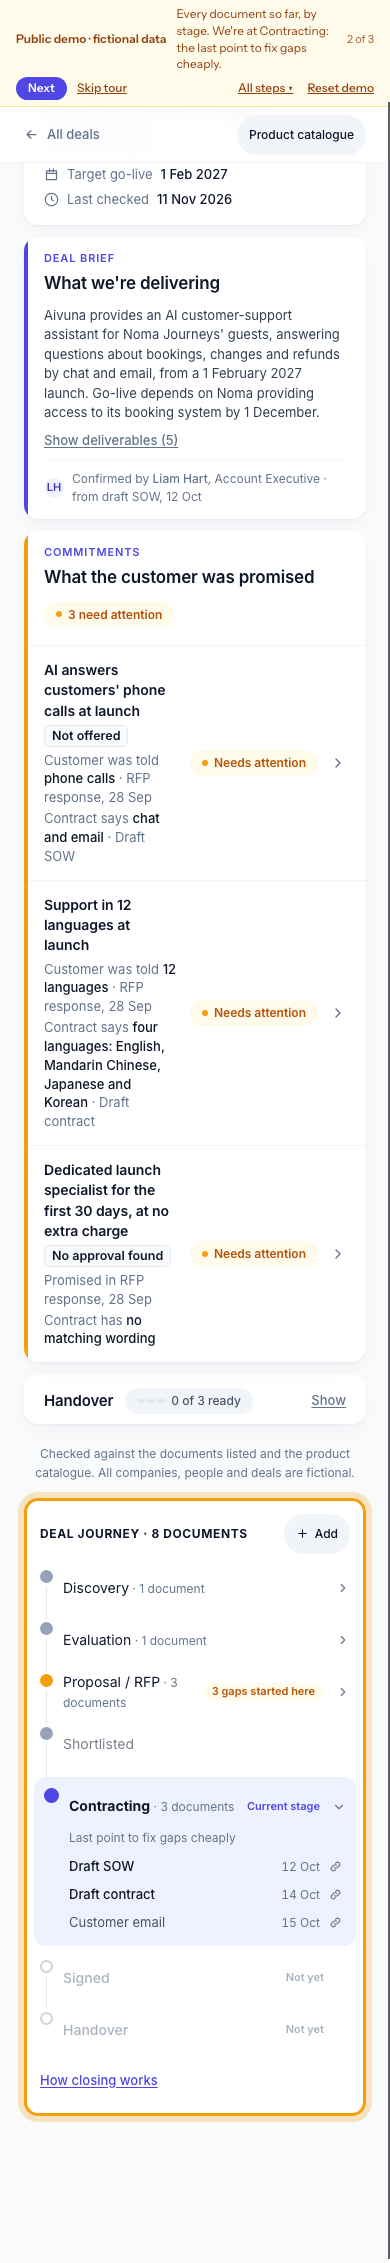
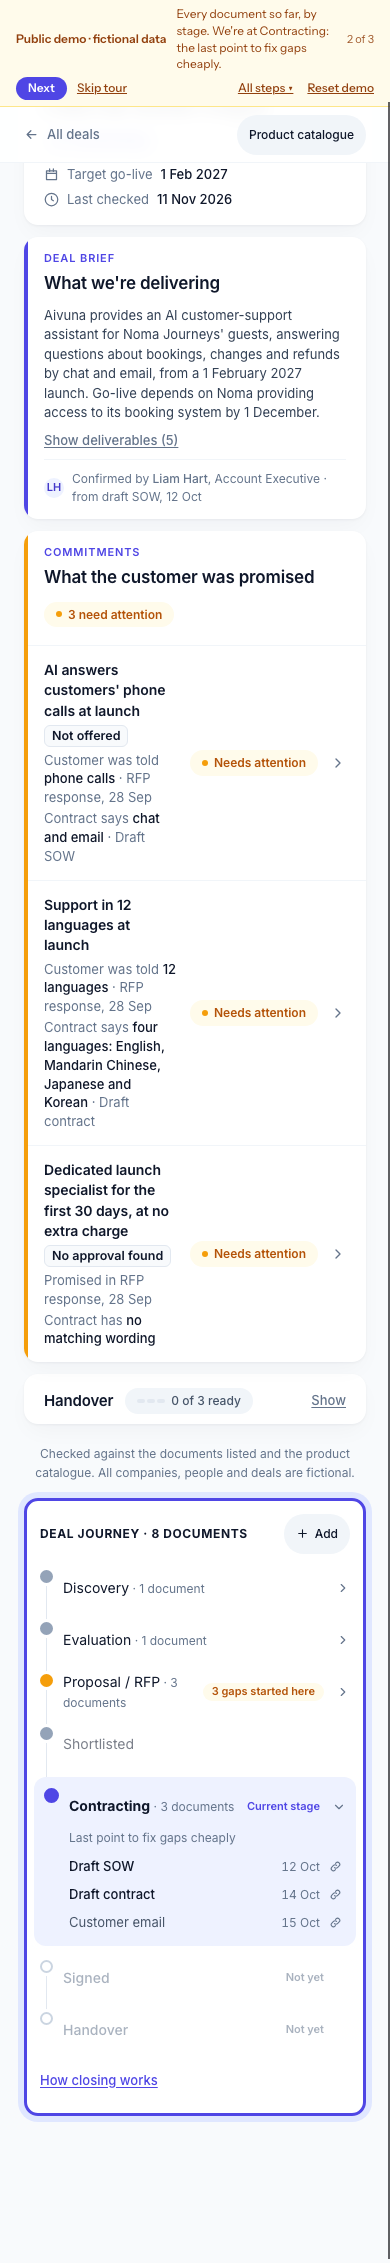
Result dialog replaces inline What changed card; indigo tour highlights; tests 830/244

Changed region(s): [[0.0308, 0.6496, 0.9538, 0.9589]]

diff --git a/frontend/src/DealPage.jsx b/frontend/src/DealPage.jsx
@@ -11,7 +11,7 @@ import "@fontsource/inter/latin-700.css";
 import * as api from "./api.js";
 import { addReady, fmtDate, fmtDateTime, mismatchNotice, newDocumentNotice, uploadKind } from "./format.js";
 import {
-  CLOSING_ONE_LINE, FINDING_SHORT, GAP_CLOSES, closedBy, closedLines, reopenedLines, signedConfirmations, SIGNED_NOTE, STATUS_CHIP, commitmentView, attentionText, changeResult, closedTitle, confirmedTitle, reopenedTitle, coverageLine, docCount, gapProgress, orderPromises, journeyOpen, docLabel, groupByStage, hashFor, isSignedDoc,
+  CLOSING_ONE_LINE, FINDING_SHORT, GAP_CLOSES, closedBy, closedLines, reopenedLines, signedConfirmations, SIGNED_NOTE, STATUS_CHIP, commitmentView, attentionText, changeResult, changeTitle, changedPromises, closedTitle, confirmedTitle, reopenedTitle, coverageLine, docCount, gapProgress, orderPromises, journeyOpen, docLabel, groupByStage, hashFor, isSignedDoc,
   mismatchParts, promiseLabels, missingForHandover, handoverChecklist, handoverOpen, changeView, changeDocLabel, datePrefill, plainName, readHash, recordedBy, rowTitle, toldParts, suggestFix, useName, whatChanged,
 } from "./dealpage.js";
 import FrozenRecord from "./FrozenRecord.jsx";
@@ -210,19 +210,33 @@ function NotePanel({ deal, role, label, who, note, name, setName, onSave }) {
   );
 }
 
-export function ChangePanel({ change, titleOf, onClose }) {
+// The result of a recheck, as a centred dialog over the dimmed page (11 Nov; it was an inline card above the commitments). It opens after "Add and check"
+// (and after a signed contract). One line per change, grouped by commitment: a green tick for a gap closed by documents or confirmed in the signed contract,
+// amber for a gap still open or reopened, a "New" tag for a new gap. "Got it" closes it and highlights the rows that changed; Escape, the X and a click on the
+// dimmed page close it without. Below 640px it is a full-width sheet from the bottom, scrollable, with "Got it" always visible.
+export function ChangeDialog({ change, titleOf, onClose, onGotIt }) {
   const { openPromises } = change;
   const short = (f) => FINDING_SHORT[f] ?? f;
   const view = changeView(change, titleOf, change.acted);
+  const rows = view.groups.some((g) => g.closed.length || g.confirmed.length || g.reopened.length || g.stillOpen.length || g.opened.length);
+  const titleId = useId();
+  const gotIt = useRef(null);
+  useEffect(() => {
+    const before = document.activeElement;
+    gotIt.current?.focus();
+    const onKey = (e) => e.key === "Escape" && onClose();
+    window.addEventListener("keydown", onKey);
+    return () => { window.removeEventListener("keydown", onKey); before?.focus?.(); };
+  }, [onClose]);
   return (
-    <section className="dp-card dp-change" role="status" aria-live="polite">
-      <div className="dp-change-body">
-        <div className="dp-change-head">
-          <h2><Icon d={I.sync} size={18} /> After adding {change.doc}</h2>
-          <p className="dp-change-result">{view.headline}</p>
-          {view.elsewhere && <p className="dp-change-else">{view.elsewhere}</p>}
+    <div className="dp-cd" onClick={onClose}>
+      <div className="dp-cd-panel" role="dialog" aria-modal="true" aria-labelledby={titleId} onClick={(e) => e.stopPropagation()}>
+        <div className="dp-cd-head">
+          <h2 id={titleId}>{change.title ?? `Rechecked after adding ${change.doc}`}</h2>
+          <button type="button" className="dp-x" onClick={onClose} aria-label="Close"><Icon d={I.close} size={16} /></button>
         </div>
-        <div className="dp-change-rows">
+        <div className="dp-cd-body">
+          {!rows && <p className="dp-change-result">{view.headline}</p>}
           {view.groups.map((g) => (
             <div key={g.promise} className="dp-change-group">
               <h3 className="dp-change-title">{g.title}</h3>
@@ -234,7 +248,6 @@ export function ChangePanel({ change, titleOf, onClose }) {
                       <strong>{closedTitle(x.finding)}</strong>
                       <span className="dp-change-closed"> · closed by documents</span>
                     </div>
-                    <p>{x.why}</p>
                     {x.by && <p className="dp-change-by">{closedBy(x.by)}</p>}
                   </div>
                 </div>
@@ -265,7 +278,7 @@ export function ChangePanel({ change, titleOf, onClose }) {
               {g.stillOpen.map((x) => (
                 <div key={`s|${x.finding}`} className="dp-change-row is-open">
                   <span className="dp-change-mark"><Icon d={I.alert} size={13} /></span>
-                  <div><div className="dp-change-line"><strong>Still needs attention: {short(x.finding)}</strong></div></div>
+                  <div><div className="dp-change-line"><strong>{short(x.finding)}</strong><span className="dp-change-still"> · still open</span></div></div>
                 </div>
               ))}
               {g.opened.map((x) => (
@@ -281,18 +294,17 @@ export function ChangePanel({ change, titleOf, onClose }) {
               ))}
             </div>
           ))}
+          {view.elsewhere && <p className="dp-change-else">{view.elsewhere}</p>}
+          <p className="dp-change-count">{openPromises} {openPromises === 1 ? "commitment still needs" : "commitments still need"} attention.</p>
         </div>
-        <div className="dp-change-foot">
-          <span className="dp-change-count">{openPromises} {openPromises === 1 ? "commitment still needs" : "commitments still need"} attention.</span>
-          <span className="dp-row">
-            <button type="button" className="dp-link-btn dp-done" onClick={onClose}>Done</button>
-          </span>
+        <div className="dp-cd-foot">
+          <p className="dp-change-model">
+            {change.modelCalls ? "The model read the new document; code checked every finding again." : "No model call was needed: code checked every finding again."}
+          </p>
+          <button type="button" className="dp-btn dp-btn-dark" ref={gotIt} onClick={onGotIt ?? onClose}>Got it</button>
         </div>
-        <p className="dp-change-model">
-          {change.modelCalls ? "The model read the new document; code checked every finding again." : "No model call was needed: code checked every finding again."}
-        </p>
       </div>
-    </section>
+    </div>
   );
 }
 
@@ -688,7 +700,7 @@ export default function DealPage({ deal, onBack, onDealsChanged, onClassic }) {
   const [change, setChange] = useState(null); // the "What changed" card after a document or a recheck
   const [askName, setAskName] = useState(null); // { fn, initial }: the name prompt, only for actions that have no form of their own
   const [help, setHelp] = useState(false);
-  const [flash, setFlash] = useState({ row: null, handover: false }); // the demo bar's target, highlighted for a moment
+  const [flash, setFlash] = useState({ row: null, handover: false, rows: [] }); // what to highlight for a moment: the demo bar's target row or Handover, or the rows a recheck changed
   const [tourKey, setTourKey] = useState(null); // the section the bar's "Get the picture" tour is showing: "brief", "journey" or "commitments"
   const [handoverManual, setHandoverManual] = useState(null); // { stage, open }: a person's choice for the Handover card, kept until the stage changes or the page reloads
   const handoverBodyId = useId();
@@ -735,13 +747,13 @@ export default function DealPage({ deal, onBack, onDealsChanged, onClassic }) {
     if (a.drawer) setDrawer(a.drawer);
     if (a.drawer?.type === "commitment") writeHash(byId(a.drawer.id)?.ref ?? null);
     if (a.handover) setHandoverManual({ stage: reg.stage.current, open: true });
-    setFlash({ row: a.row, handover: a.handover });
+    setFlash({ row: a.row, handover: a.handover, rows: [] });
     setTimeout(() => {
       const at = a.row != null ? promiseRowIds.indexOf(a.row) : -1; // the row's place in the list; the row markup itself carries no id
       const target = a.handover ? document.getElementById("dp-handover") : at >= 0 ? document.querySelectorAll("#dp-commitments .dp-plist > li")[at] : document.getElementById("dp-commitments");
       target?.scrollIntoView({ behavior: "smooth", block: "center" });
     }, 60);
-    setTimeout(() => setFlash({ row: null, handover: false }), 2600);
+    setTimeout(() => setFlash({ row: null, handover: false, rows: [] }), 2600);
   };
   // The demo bar (public mode) shows the guide: this page tells it where the visitor is, and "Do step N" in the bar comes back here to doStep.
   const publishGuide = useContext(GuidePublishContext);
@@ -790,15 +802,19 @@ export default function DealPage({ deal, onBack, onDealsChanged, onClassic }) {
     const after = await api.fetchRegister(deal);
     // The card names the document by its plain name and date, never the file name (31 Oct); a new version's date is the one the server shows.
     let label = changeDocLabel({ name: added.name, existing: false, date: added.date });
+    let title = changeTitle({ name: added.name, existing: false, date: added.date });
     if (added.source_key) {
       const d = (await api.fetchDocuments(deal)).documents.find((x) => x.source_key === added.source_key);
-      if (d) label = changeDocLabel({ name: d.name, existing: true, version: d.version, date: d.version_date || d.date });
+      if (d) {
+        label = changeDocLabel({ name: d.name, existing: true, version: d.version, date: d.version_date || d.date });
+        title = changeTitle({ name: d.name, existing: true, version: d.version, date: d.version_date || d.date });
+      }
     }
-    setChange({ ...whatChanged(reg, after), doc: label, acted, modelCalls: review.model_calls });
+    setChange({ ...whatChanged(reg, after), doc: label, title, acted, modelCalls: review.model_calls }); // opens the result dialog over the page
     load();
     onDealsChanged?.();
-    window.scrollTo({ top: 0, behavior: "smooth" });
   };
+  const closeChange = useCallback(() => setChange(null), []);
 
   if (error) return <div className="dp"><p className="dp-error">{error}</p></div>;
   if (!reg || !docs) return <div className="dp"><p className="dp-faint">Loading…</p></div>;
@@ -817,6 +833,17 @@ export default function DealPage({ deal, onBack, onDealsChanged, onClassic }) {
   ].filter((r) => r.c));
   const statusOf = (id) => promiseRows.find((r) => r.c.id === id)?.status ?? "open";
   const promiseRowIds = promiseRows.map((r) => r.c.id);
+  const titleOfChange = (n) => reg.commitments.find((c) => c.name === n)?.display_name || n;
+  // "Got it": close the dialog, then highlight the rows the recheck changed for about two seconds and scroll to the first of them.
+  const gotIt = () => {
+    const ids = change ? changedPromises(change, titleOfChange, change.acted).map((n) => reg.commitments.find((c) => c.name === n)?.id).filter((id) => id != null) : [];
+    setChange(null);
+    if (!ids.length) return;
+    setFlash({ row: null, handover: false, rows: ids });
+    const first = Math.min(...ids.map((id) => promiseRowIds.indexOf(id)).filter((i) => i >= 0));
+    setTimeout(() => document.querySelectorAll("#dp-commitments .dp-plist > li")[first]?.scrollIntoView({ behavior: "smooth", block: "center" }), 60);
+    setTimeout(() => setFlash({ row: null, handover: false, rows: [] }), 2200);
+  };
   const notes = reg.handover.notes;
   const STAGE_ORDER = ["discovery", "evaluation", "proposal", "shortlisted", "contracting", "signed", "handover"];
   const isSigned = STAGE_ORDER.indexOf(reg.stage.current) >= STAGE_ORDER.indexOf("signed"); // from the documents only
@@ -869,7 +896,6 @@ export default function DealPage({ deal, onBack, onDealsChanged, onClassic }) {
           <BriefCard brief={reg.brief} collapsible />
 
           {message && <div className={`dp-message is-${message.kind}`} role="status">{message.text}</div>}
-          {change && <ChangePanel change={change} titleOf={(n) => reg.commitments.find((c) => c.name === n)?.display_name || n} onClose={() => setChange(null)} />}
 
           <section className={`dp-card dp-promises ${openRows.length ? "is-attention" : "is-clear"}`} id="dp-commitments">
             <CardHead eyebrow="Commitments" title="What the customer was promised">
@@ -879,7 +905,7 @@ export default function DealPage({ deal, onBack, onDealsChanged, onClassic }) {
             {promiseRows.length === 0 && <p className="dp-faint dp-pad">No commitments with gaps on the current documents.</p>}
             <ul className="dp-plist">
               {promiseRows.map(({ c, status }) => (
-                <CommitRow key={c.id} c={c} status={status} active={fromId === c.id} flash={flash.row === c.id} onOpen={() => openCommitment(c)} />
+                <CommitRow key={c.id} c={c} status={status} active={fromId === c.id} flash={flash.row === c.id || flash.rows.includes(c.id)} onOpen={() => openCommitment(c)} />
               ))}
             </ul>
           </section>
@@ -935,6 +961,7 @@ export default function DealPage({ deal, onBack, onDealsChanged, onClassic }) {
         </aside>
       </div>
 
+      {change && <ChangeDialog change={change} titleOf={titleOfChange} onClose={closeChange} onGotIt={gotIt} />}
       {catFocus !== null && <CatalogueModal focus={catFocus} deal={deal} onClose={() => setCatFocus(null)} onChanged={load} />}
       {help && <ClosingHelp onClose={() => setHelp(false)} />}
       {askName && (

diff --git a/frontend/src/DealPage.css b/frontend/src/DealPage.css
@@ -267,11 +267,6 @@ body:has(.dp) { background: #f8fafc; }
 .dp-how-list { margin: 0 0 10px; padding-left: 18px; font-size: 13px; display: flex; flex-direction: column; gap: 6px; }
 
 /* What changed: a card at the top of the main column after a document is added */
-.dp-change { position: relative; overflow: hidden; padding: 0; }
-.dp-change::before { content: ""; display: block; height: 3px; background: var(--accent); }
-.dp-change-body { display: flex; flex-direction: column; gap: 12px; padding: 14px 20px 12px; }
-.dp-change-head h2 { display: flex; align-items: center; gap: 8px; font-size: 16px; font-weight: 600; letter-spacing: -0.01em; }
-.dp-change-head h2 svg { color: var(--accent); }
 .dp-change-rows { display: flex; flex-direction: column; gap: 8px; }
 .dp-change-row { display: flex; align-items: flex-start; gap: 10px; padding: 10px 12px; border-radius: 12px; }
 .dp-change-row.is-closed { background: var(--soft); }
@@ -284,13 +279,10 @@ body:has(.dp) { background: #f8fafc; }
 .dp-change-row p { margin: 2px 0 0; font-size: 12px; color: var(--body); }
 .dp-change-row p.dp-change-by { color: var(--muted); }
 /* "What changed" per commitment (31 Oct): one line for what moved elsewhere, and the detail boxes grouped under each commitment's title. */
-.dp-change-else { margin: 4px 0 0 26px; font-size: 13px; color: var(--body); }
+.dp-change-else { margin: 0 0 0 4px; font-size: 13px; color: var(--body); }
 .dp-change-group { display: flex; flex-direction: column; gap: 8px; }
 .dp-change-title { margin: 4px 0 0; font-size: 13px; font-weight: 600; color: var(--ink); }
-.dp-change-foot { display: flex; justify-content: space-between; align-items: center; gap: 12px; flex-wrap: wrap; padding-top: 10px; border-top: 1px solid var(--hair); }
 .dp-change-count { font-size: 13px; font-weight: 500; color: var(--body); }
-.dp-change-foot .dp-link-btn { text-decoration: none; }
-.dp-change-foot .dp-done { color: var(--accent); font-weight: 600; }
 
 /* Sidebar: Deal journey, the seven stages with their documents */
 .dp-aside { position: sticky; top: calc(var(--demo-bar-h, 0px) + var(--topbar-h) + 12px); max-height: calc(100vh - var(--demo-bar-h, 0px) - var(--topbar-h) - 24px); overflow-y: auto; }
@@ -513,7 +505,7 @@ main.home.home-deal { max-width: none; margin: 0; padding: 0; }
 .dp-warnbox { margin: 0; padding: 10px 12px; border-radius: 10px; background: var(--tint); color: var(--ink); font-size: 13px; line-height: 1.45; }
 
 /* Positioning pass (20 Oct) */
-.dp-change-result { margin: 4px 0 0 26px; font-size: 14px; font-weight: 600; color: var(--ink); }
+.dp-change-result { margin: 0; font-size: 14px; font-weight: 600; color: var(--ink); }
 .dp-change-model { margin: 8px 0 0; font-size: 12px; color: var(--muted); }
 .dp-coverage { margin: 0; padding: 0 20px 8px; font-size: 12px; color: var(--muted); }
 .dp-tl-toggle { border: 0; background: none; padding: 0; font: inherit; text-align: left; cursor: pointer; width: 100%; }
@@ -545,9 +537,29 @@ main.home.home-deal { max-width: none; margin: 0; padding: 0; }
 }
 
 /* The demo bar's "Get the picture" tour (11 Nov, public mode): the section being described is outlined; the attribute is absent otherwise, so nothing changes in local mode. */
-.dp-grid[data-tour="brief"] .dp-brief-card, .dp-grid[data-tour="commitments"] #dp-commitments, .dp-grid[data-tour="journey"] .dp-aside > * { outline: 3px solid #f59e0b; outline-offset: -3px; box-shadow: 0 0 0 6px rgba(245, 158, 11, 0.25); transition: box-shadow 0.2s; }
+.dp-grid[data-tour="brief"] .dp-brief-card, .dp-grid[data-tour="commitments"] #dp-commitments, .dp-grid[data-tour="journey"] .dp-aside > * { outline: 3px solid var(--accent); outline-offset: -3px; box-shadow: 0 0 0 6px var(--tint-line); transition: box-shadow 0.2s; } /* the brand indigo; amber stays for "needs attention" */
 .dp-grid[data-tour] .dp-brief-card, .dp-grid[data-tour] #dp-commitments, .dp-grid[data-tour] .dp-aside { scroll-margin-top: calc(var(--demo-bar-h, 0px) + var(--topbar-h) + 12px); }
 /* A guided drawer: one hint line above the buttons, and the button to click is highlighted. */
 .dr-guide-hint { margin: 0; padding: 8px 10px; border-radius: 8px; background: var(--tint); color: var(--ink); font-size: 13px; line-height: 1.45; }
-.dr-actions .dp-btn.is-guided { box-shadow: 0 0 0 3px #f59e0b; animation: demo-guided 1.4s ease-in-out 3; }
-@keyframes demo-guided { 0%, 100% { box-shadow: 0 0 0 3px rgba(245, 158, 11, 0.95); } 50% { box-shadow: 0 0 0 6px rgba(245, 158, 11, 0.35); } }
+.dr-actions .dp-btn.is-guided { box-shadow: 0 0 0 2px var(--card), 0 0 0 5px var(--accent); animation: demo-guided 1.4s ease-in-out 3; }
+@keyframes demo-guided { 0%, 100% { box-shadow: 0 0 0 2px var(--card), 0 0 0 5px var(--accent); } 50% { box-shadow: 0 0 0 2px var(--card), 0 0 0 8px var(--tint-line); } }
+
+/* The result dialog (11 Nov): centred over the dimmed page; below 640px a full-width sheet from the bottom with "Got it" always visible. */
+.dp-cd { position: fixed; inset: 0; z-index: 80; display: flex; align-items: center; justify-content: center; padding: 24px; background: rgba(15, 23, 42, 0.45); }
+.dp-cd-panel { display: flex; flex-direction: column; width: min(560px, 100%); max-height: min(85vh, 720px); background: var(--card); color: var(--body); border-radius: 16px; box-shadow: var(--shadow); overflow: hidden; }
+.dp-cd-head { display: flex; align-items: flex-start; justify-content: space-between; gap: 12px; padding: 16px 20px 10px; border-bottom: 1px solid var(--hair); }
+.dp-cd-head h2 { margin: 0; font-size: 16px; font-weight: 600; letter-spacing: -0.01em; color: var(--ink); line-height: 1.35; }
+.dp-cd-body { flex: 1; min-height: 0; overflow-y: auto; display: flex; flex-direction: column; gap: 10px; padding: 12px 20px; }
+.dp-cd-foot { flex: none; display: flex; align-items: center; justify-content: space-between; gap: 12px; padding: 10px 20px 14px; border-top: 1px solid var(--hair); background: var(--card); }
+.dp-cd-foot .dp-change-model { margin: 0; flex: 1; font-size: 12px; color: var(--muted); }
+.dp-cd-foot .dp-btn { flex: none; min-width: 96px; }
+.dp-change-count { margin: 0; font-size: 12px; color: var(--muted); }
+.dp-change-still { font-size: 13px; color: var(--amber-text); font-weight: 500; }
+.dp-change-row p.dp-change-by { font-size: 11.5px; color: var(--muted); }
+@media (max-width: 639px) {
+  .dp-cd { align-items: flex-end; padding: 0; }
+  .dp-cd-panel { width: 100%; max-height: 88vh; border-radius: 16px 16px 0 0; }
+  .dp-cd-foot { flex-direction: column-reverse; align-items: stretch; padding-bottom: calc(14px + env(safe-area-inset-bottom, 0px)); }
+  .dp-cd-foot .dp-btn { width: 100%; }
+}
+@media print { .dp-cd { display: none; } }

diff --git a/frontend/src/dealpage.js b/frontend/src/dealpage.js
@@ -140,6 +140,17 @@ export const datePrefill = (head, today) => statedDate(head) ?? today;
 export const changeDocLabel = ({ name, existing, version, date }) =>
   existing ? `${name}, new version (v${version}, ${short(date)})` : `${name}, ${short(date)}`;
 
+// The result dialog's title (11 Nov): "Rechecked after adding Internal approvals note v2 (18 Oct)" for a new version, "... Signed contract (20 Oct)" for a new document.
+export const changeTitle = ({ name, existing, version, date }) =>
+  existing ? `Rechecked after adding ${name} v${version} (${short(date)})` : `Rechecked after adding ${name} (${short(date)})`;
+
+// The commitments a recheck changed (closed, confirmed, reopened or newly opened a gap on), in the order the dialog lists them: "Got it" highlights their rows.
+export function changedPromises(change, titleOf = (n) => n, acted = null) {
+  return changeView(change, titleOf, acted).groups
+    .filter((g) => g.closed.length || g.confirmed.length || g.reopened.length || g.opened.length)
+    .map((g) => g.promise);
+}
+
 // Which document usually resolves a gap: the pricing note for an approval, the SOW for the contract, the promise itself
 // when the product doesn't offer it. A suggestion only; the person can pick any document.
 export function suggestFix(open, documents) {

diff --git a/frontend/src/App.css b/frontend/src/App.css
@@ -384,7 +384,7 @@ main.home { max-width: 1440px; }
 .demo-guide-list li.is-done .demo-guide-n { background: #dcfce7; color: #166534; }
 .demo-guide-list li.is-current .demo-guide-n { background: #4f46e5; color: #fff; }
 .demo-guide-label { flex: 1; min-width: 0; }
-@keyframes demo-flash { 0%, 55% { background: #fde68a; box-shadow: 0 0 0 2px #f59e0b; } 100% { background: transparent; box-shadow: none; } }
+@keyframes demo-flash { 0%, 55% { background: var(--tint, #eef2ff); box-shadow: 0 0 0 2px var(--accent, #4f46e5); } 100% { background: transparent; box-shadow: none; } } /* the brand indigo; amber is for "needs attention" */
 .dp-prow.is-flash .dp-prow-head { animation: demo-flash 2.4s ease-out; }
 .dp-handover.is-flash { animation: demo-flash 2.4s ease-out; }
 

diff --git a/docs/DEMO_SCRIPT_2026-10-20_noma.md b/docs/DEMO_SCRIPT_2026-10-20_noma.md
@@ -43,7 +43,7 @@ The model read the eight starting documents once, against Aivuna's ten-capabilit
 | 0:40 | Click **AI answers customers' phone calls at launch** | "The RFP response promised that the assistant answers phone calls. The SOW says chat and email, and the catalogue lists chat and email only. Two gaps on one promise, and one of them can't be fixed with an approval: voice isn't offered." *Point at the origin line:* "Where it was first found, worked out from the exact sentence in the documents." |
 | 1:00 | Click **Catalogue: CAP-003 · SG** | "This opens this deal's own catalogue: Aivuna's. It says plainly that voice isn't offered. Elva's deals open Elva's catalogue." Close it. |
 | 1:15 | Back to the row list → **Dedicated launch specialist…** | "A launch specialist for 30 days at no charge. Two gaps: the catalogue says it needs a named approval, and nobody recorded one. And it's not in the contract or the SOW at all." |
-| 1:30 | Launch specialist row → **Add updated document** → choose the file `NJ-05_v2_named_exception.md` → check the form reads **This is: A new version of: Pricing and services note (currently v1)** (it is pre-selected; if it says "A new document", choose the version) → **Add and check** | "The head of Customer Success approved a named exception, and I add the new pricing note." *Point at What changed:* "**Approval found, and the contract gap is still open.** An approval doesn't put a promise into the contract. This is the moment to notice: a partial fix stays visibly partial." (No model call is needed for this step; the footer says so.) |
+| 1:30 | Launch specialist row → **Add updated document** → choose the file `NJ-05_v2_named_exception.md` → check the form reads **This is: A new version of: Pricing and services note (currently v1)** (it is pre-selected; if it says "A new document", choose the version) → **Add and check** | "The head of Customer Success approved a named exception, and I add the new pricing note." *Point at the result dialog ("Rechecked after adding …"; **Got it** closes it and highlights the rows that changed):* "**Approval found, and the contract gap is still open.** An approval doesn't put a promise into the contract. This is the moment to notice: a partial fix stays visibly partial." (No model call is needed for this step; the footer says so.) |
 | 2:05 | **Support in 12 languages at launch** → **Add updated document** → choose the file `NJ-07_v2_languages_aligned.md` → check the form reads **This is: A new version of: Draft contract (currently v1)** (not the Draft SOW) → **Add and check** | "Sales promised 12 languages, the draft contract said four. Aivuna's catalogue supports 12, so the fix is the contract. The contract changed, so the model reads it. That takes a few seconds. The reading is cached on this machine from the 20 Oct rehearsal, so it runs even with no API key; on another machine it needs the key." *Point:* "Closed by documents, in solid green, with the document that closed it. The line says the contract changed and the SOW was checked with it, unchanged." *Then glance at the phone row* (it now shows a third gap): "**A new document can also surface a new gap — here, phone calls appear nowhere in the revised contract.**" |
 | 2:40 | **AI answers customers' phone calls** → **Record a note** → **Mark as addressed by note** → "Noma agreed on 19 Oct to launch on chat and email; voice is not offered." → **Save note** | "Here the answer is a conversation, not a document. Noma accepted a launch without voice. A note is a person's word, so it's outlined grey, not green. It settles all three gaps on the promise (not offered, differs from the SOW, and the new missing-wording gap), they all stay visible, and it reopens if the documents change." |
 | 3:05 | Sidebar **+ Add** → choose the file `NJ-09_signed_contract.md` → **This is: A new document**, **Type: Signed contract** (leave Dated as today) → **Add and check** | "The signed contract arrives, 12 languages, no launch specialist. The stage moves to Signed because of the document." *Point at the languages row:* "Confirmed in the signed contract: Dealshape looked for the exact sentence that closed the gap, and it is in the signed agreement. A fix in a draft only counts if it survives signing." |

diff --git a/docs/DEMO_SCRIPT_2026-10-21_noma.md b/docs/DEMO_SCRIPT_2026-10-21_noma.md
@@ -37,7 +37,7 @@
 | 0:00 | **Landing page.** Point at the two cards | "When a deal is signed, Delivery inherits the contract. But the customer remembers the proposal, the RFP answers and the calls. Dealshape compares customer promises, contractual wording and the vendor's catalogue, and flags mismatches with linked source evidence. AI surfaces gaps, code checks sources, and teams decide the response." |
 | 0:20 | **Open sample deal** on **AI support assistant**. Pause | "An AI support platform, Aivuna, selling to a travel company. What we're delivering is here, confirmed by the deal owner. Three commitments need attention, and each needs a different business decision." |
 | 0:35 | Click **AI answers customers' phone calls at launch** | "The RFP response promised phone calls. The SOW says chat and email, and Aivuna's catalogue lists chat and email only. Every quote is exact wording from the source, linked. The model reads; code checks each quote against its document. And this one is a capability boundary: no exception can make voice exist." |
-| 1:00 | Close the drawer. **Dedicated launch specialist…** → **Add updated document** → `NJ-05_v2_named_exception.md` → check **This is: A new version of: Internal approvals note** → **Add and check** | "A launch specialist for 30 days at no charge. Two gaps: it needs a named approval, and it isn't in the contract. The head of Customer Success has now authorised an exception." *Point at What changed, then* **pause**: "The approval gap closed. The contract gap is still open. An internal authorisation is not a customer-facing contractual commitment; someone still has to put it in the agreement." |
+| 1:00 | Close the drawer. **Dedicated launch specialist…** → **Add updated document** → `NJ-05_v2_named_exception.md` → check **This is: A new version of: Internal approvals note** → **Add and check** | "A launch specialist for 30 days at no charge. Two gaps: it needs a named approval, and it isn't in the contract. The head of Customer Success has now authorised an exception." *Point at the result dialog ("Rechecked after adding …"; **Got it** closes it and highlights the rows that changed), then* **pause**: "The approval gap closed. The contract gap is still open. An internal authorisation is not a customer-facing contractual commitment; someone still has to put it in the agreement." |
 | 1:45 | **Support in 12 languages at launch** → **Add updated document** → `NJ-07_v2_languages_aligned.md` → check **A new version of: Draft contract** (not the SOW) → **Add and check** | "Sales promised 12 languages; the draft contract said four. Here the fix is aligning the paperwork with the agreed scope." *Point:* "Closed by documents, naming the version that closed it." *Glance at the phone row:* "And the revised contract surfaces a new gap: phone calls appear nowhere in it." |
 | 2:15 | Sidebar **+ Add** → `NJ-09_signed_contract.md` → **This is: A new document**, **Type: Signed contract** → **Add and check** | "The signed contract arrives, and the stage moves to Signed because of the document." *Open the languages row:* "Earlier fixes are checked against the signed text. This one is confirmed. If it weren't, it would come back for review." |
 | 2:40 | **AI answers customers' phone calls** → **Record a note** → **Mark as addressed by note** → paste the note → **Save note** | "Phone calls are a capability boundary, and the answer was a conversation, not a document. This note records the customer's agreement of 19 October to launch on chat and email; it doesn't mean the scope was decided after signing. It's a recorded decision, so it looks different from documentary support: outlined grey, not green, and every gap stays visible." |

diff --git a/docs/DEMO_SCRIPT_2026-10-20_alder.md b/docs/DEMO_SCRIPT_2026-10-20_alder.md
@@ -31,7 +31,7 @@
 | 0:20 | Open **Alder Bank**. Pause. | "This is a fictional bank buying scam protection for instant payments. In ten seconds you can see what we're delivering, here, and that three commitments need attention. The stage, Contracting, comes from the documents on the right. Nobody sets it by hand." |
 | 0:45 | Click **Coaching-scam detection live at launch** | "Here's the comparison. The RFP response promised coaching-scam detection live at launch, in the exact wording of the source document. The contract and SOW have no matching wording, and the catalogue says it needs a named approval, which nobody recorded. That's two separate gaps on one promise." |
 | 1:10 | Point at the AI label | "The model reads the paperwork and finds these. But every quote is checked against the documents by code, and the gaps themselves are verified facts. The AI's summary is labelled as AI. It never closes anything." |
-| 1:25 | Coaching row → **Add updated document** → choose the file `AB-05_v2_named_exception.md` → check the form reads **This is: A new version of: Internal approvals note (currently v1)** (it is pre-selected; if it says "A new document", choose the version) → **Add and check** | "Product has approved a named exception. I add the new approvals note and the check runs again." *Point at What changed:* "The approval gap closed. The contract gap is still open, because an approval doesn't put a promise into the contract. A partial fix stays visibly partial." |
+| 1:25 | Coaching row → **Add updated document** → choose the file `AB-05_v2_named_exception.md` → check the form reads **This is: A new version of: Internal approvals note (currently v1)** (it is pre-selected; if it says "A new document", choose the version) → **Add and check** | "Product has approved a named exception. I add the new approvals note and the check runs again." *Point at the result dialog ("Rechecked after adding …"; **Got it** closes it and highlights the rows that changed):* "The approval gap closed. The contract gap is still open, because an approval doesn't put a promise into the contract. A partial fix stays visibly partial." |
 | 2:00 | Coaching row → **Add updated document** → choose the file `AB-06_v2_coaching_added.md` → check the form reads **This is: A new version of: Draft SOW (currently v1)** → **Add and check** | "Now the SOW is updated. The contract side changed, so a model reading is needed. The demo uses a saved reading, and the app still verifies every finding." *Point:* "Closed by documents, in solid green, with the document that closed it. One document closed one gap, and the app shows why." |
 | 2:35 | **Hosting on Microsoft Azure** → **Record a note** → **Mark as addressed by note** → "Customer agreed AWS Sydney on the 14 Oct call." → **Save note** | "Sometimes the answer is a conversation, not a document. A note is a person's word, so it looks different: outlined grey, not green. It stays in the handover record and reopens if the documents change." |
 | 3:00 | Sidebar **+ Add** → choose the file `AB-09_signed_contract.md` → **This is: A new document**, **Type: Signed contract** (leave Dated as today) → **Add and check** | "The signed contract arrives. The stage moves to Signed because of the document, not because someone clicked a button." **Then point at the coaching row, which is back under Needs attention:** "The revised SOW added coaching, but the signed contract incorporates the 9 October SOW — the fix never reached the signed agreement, so Dealshape reopens it. The earlier closure stays visible beneath it." *This is the closing moment: a fix in a draft is only as good as what was signed.* |

diff --git a/DECISIONS.md b/DECISIONS.md
@@ -1478,3 +1478,8 @@ Public mode only; the product page, its layout and local mode are unchanged (the
 - **Noma specialist hint** now matches what the drawer shows: "Promised in the RFP and again in the proposal, never approved, not in the contract. Add the approval and see what closes." (It said "Promised three times"; the drawer lists two sources, the RFP response and the proposal. The discovery call's wording of the promise differs from the checked sentence, so the drawer does not list it.) `tests/test_guide_facts.py` now compares the hint's sources, in order, with the drawer's listed sources (the statements' `found_in`).
 - **Alder hosting hint (step 5):** "Elva doesn't offer Azure hosting, so no document can fix this. The customer agreed AWS Sydney on a call: record it as a note." Alder steps 2 and 3 are as written; "Skip tour" marks step 1 done (agreed).
 - **Checked:** Python 830 tests OK, frontend 234 pass; engine files, `results/v2_cache`, `data/scenarios/` and the real ledger unchanged.
+
+## 2026-11-11 (result dialog, indigo highlights)
+
+- "What changed" is now a centred result dialog (`ChangeDialog`; Escape, X, backdrop and "Got it"; "Got it" highlights the changed rows for about 2 s and scrolls to the first; bottom sheet below 640px). The inline card is gone; the three demo scripts say "Point at the result dialog". Tour outline, guided button and row flash use the brand indigo.
+- **Checked:** Python 830 tests OK, frontend 244 pass (234 + 10 in `tests/result_dialog.test.mjs`; the card tests now render the dialog). In a real browser on a scratch ledger: after sample 1 the dialog titled "Rechecked after adding Internal approvals note v2 (18 Oct)" listed "Approval found · closed by documents" and "Not in the contract · still open", with no headline sentence and no inline card; after the signed contract "Rechecked after adding Signed contract (20 Oct)" listed "Contract wording matches · confirmed in the signed contract"; "Got it" closed it, highlighted the changed row and cleared the highlight after about 2.2 s. The "What changed" card is not used by the guide, bar or tour; the three demo scripts now say "Point at the result dialog". Screenshots: `docs/screens/2026-11-11/public_dialog_sample1_*`, `public_dialog_signed_*`, `public_noma_tour_2_*` at 1440px and 390px. SHA-256 before and after: engine files, `results/v2_cache`, `data/scenarios/`, `api.py`, `workspace.py`, `public_demo.py` and the real ledger unchanged.
